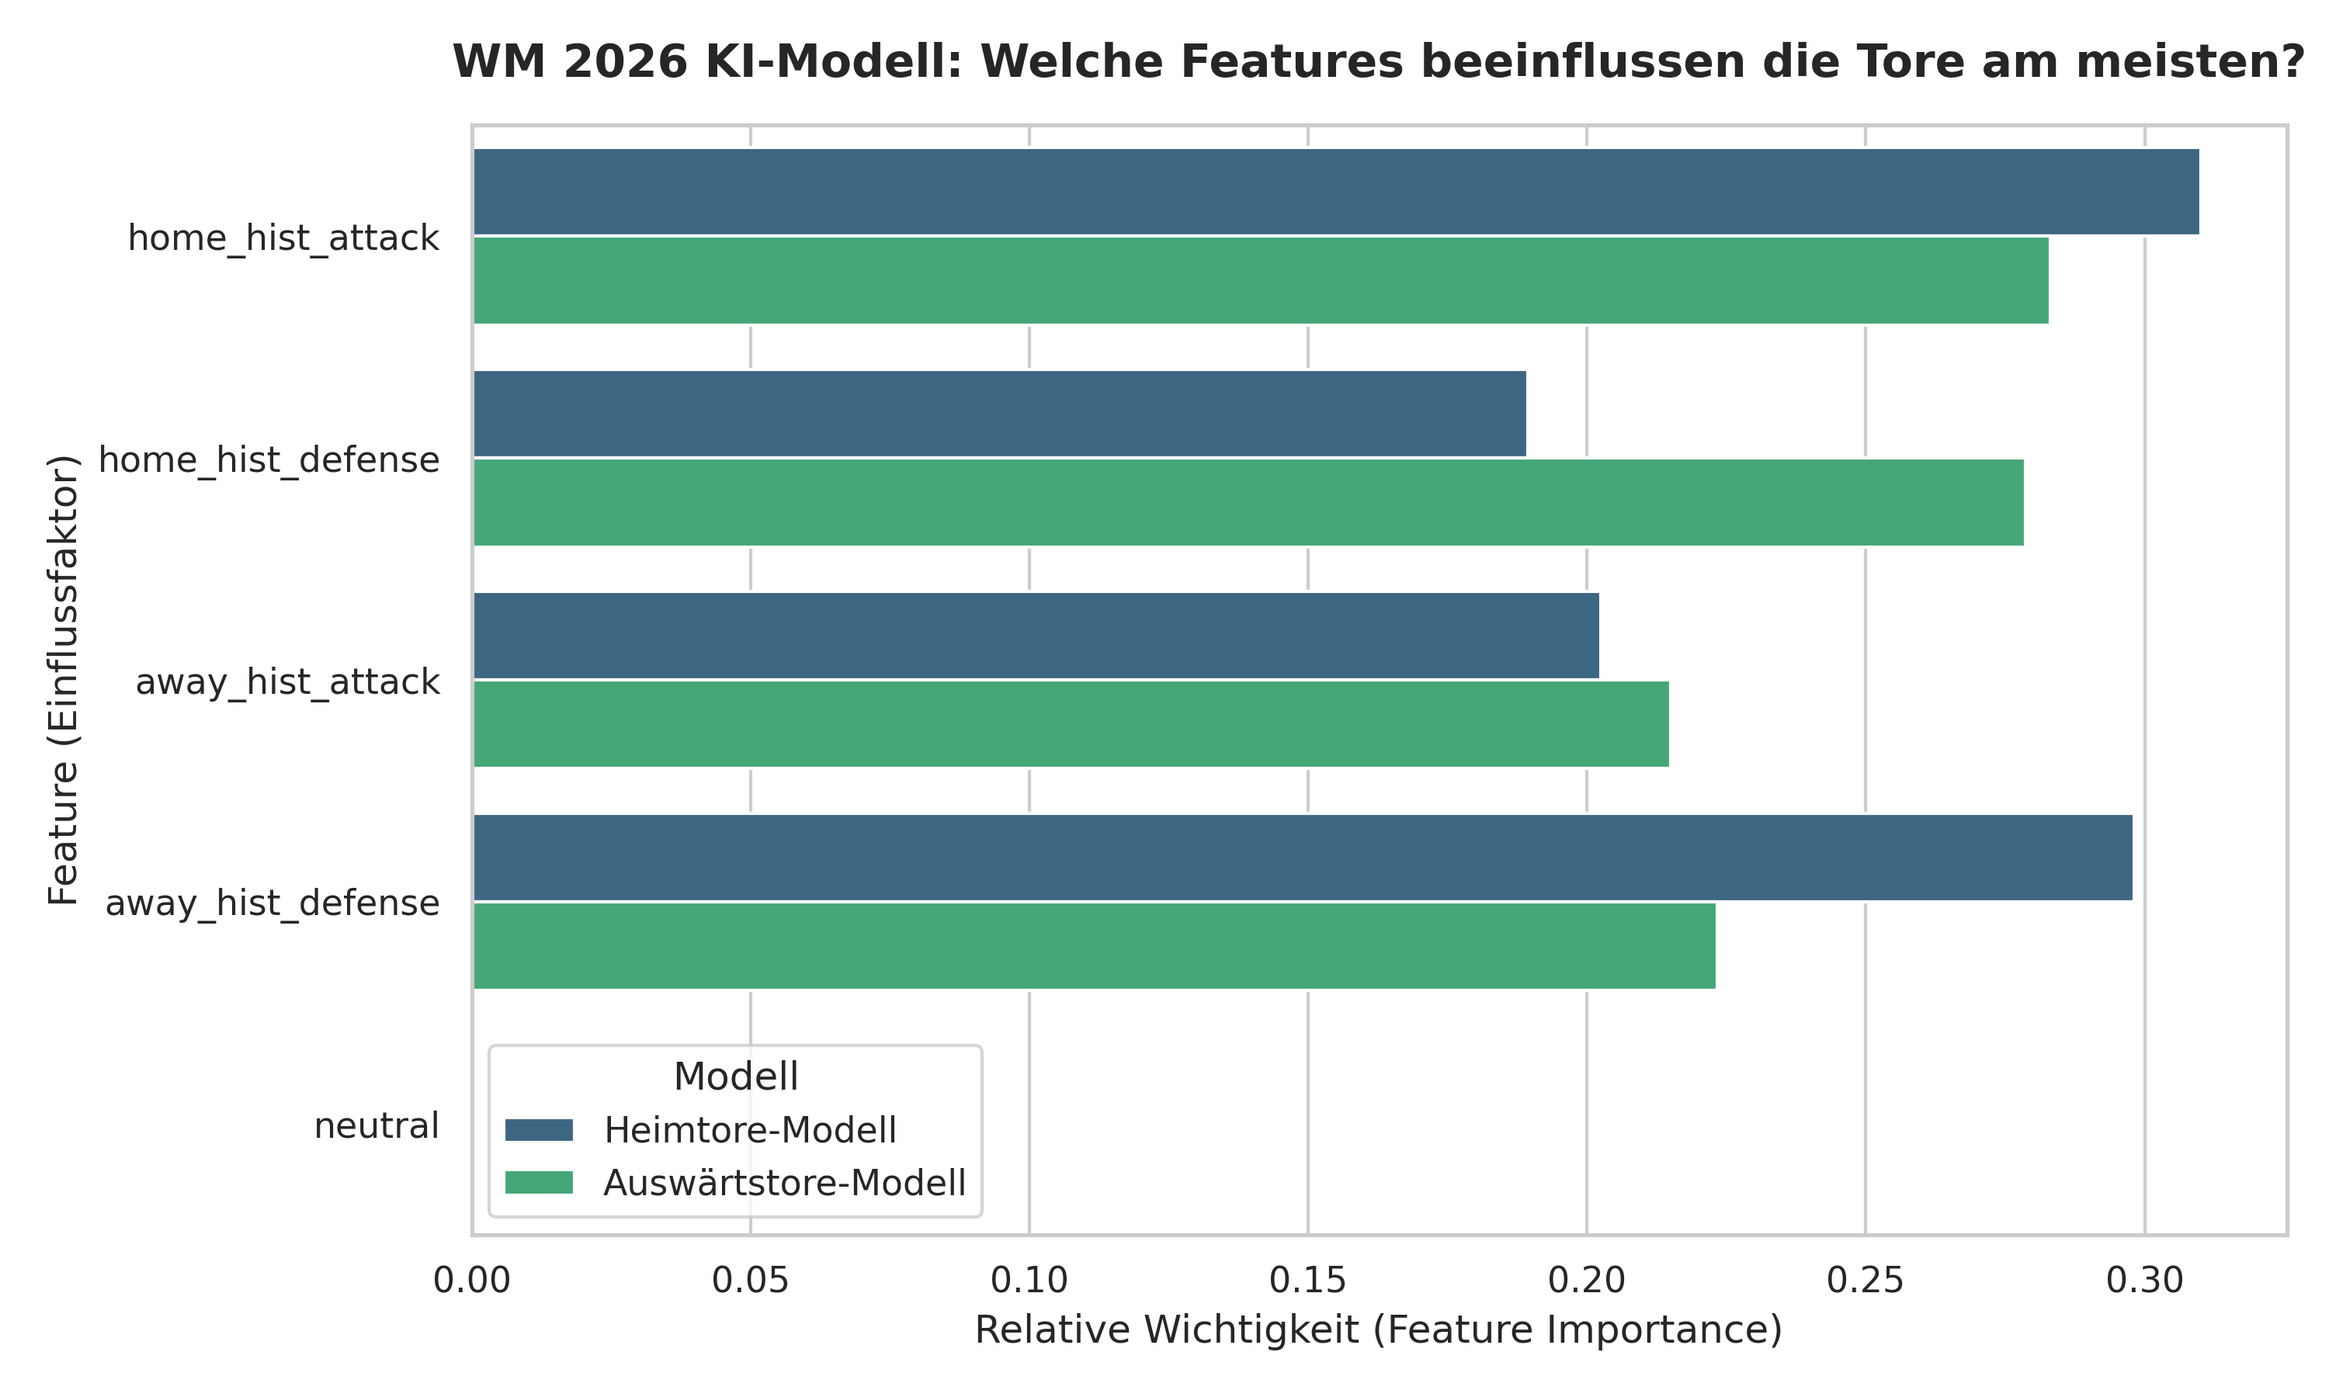
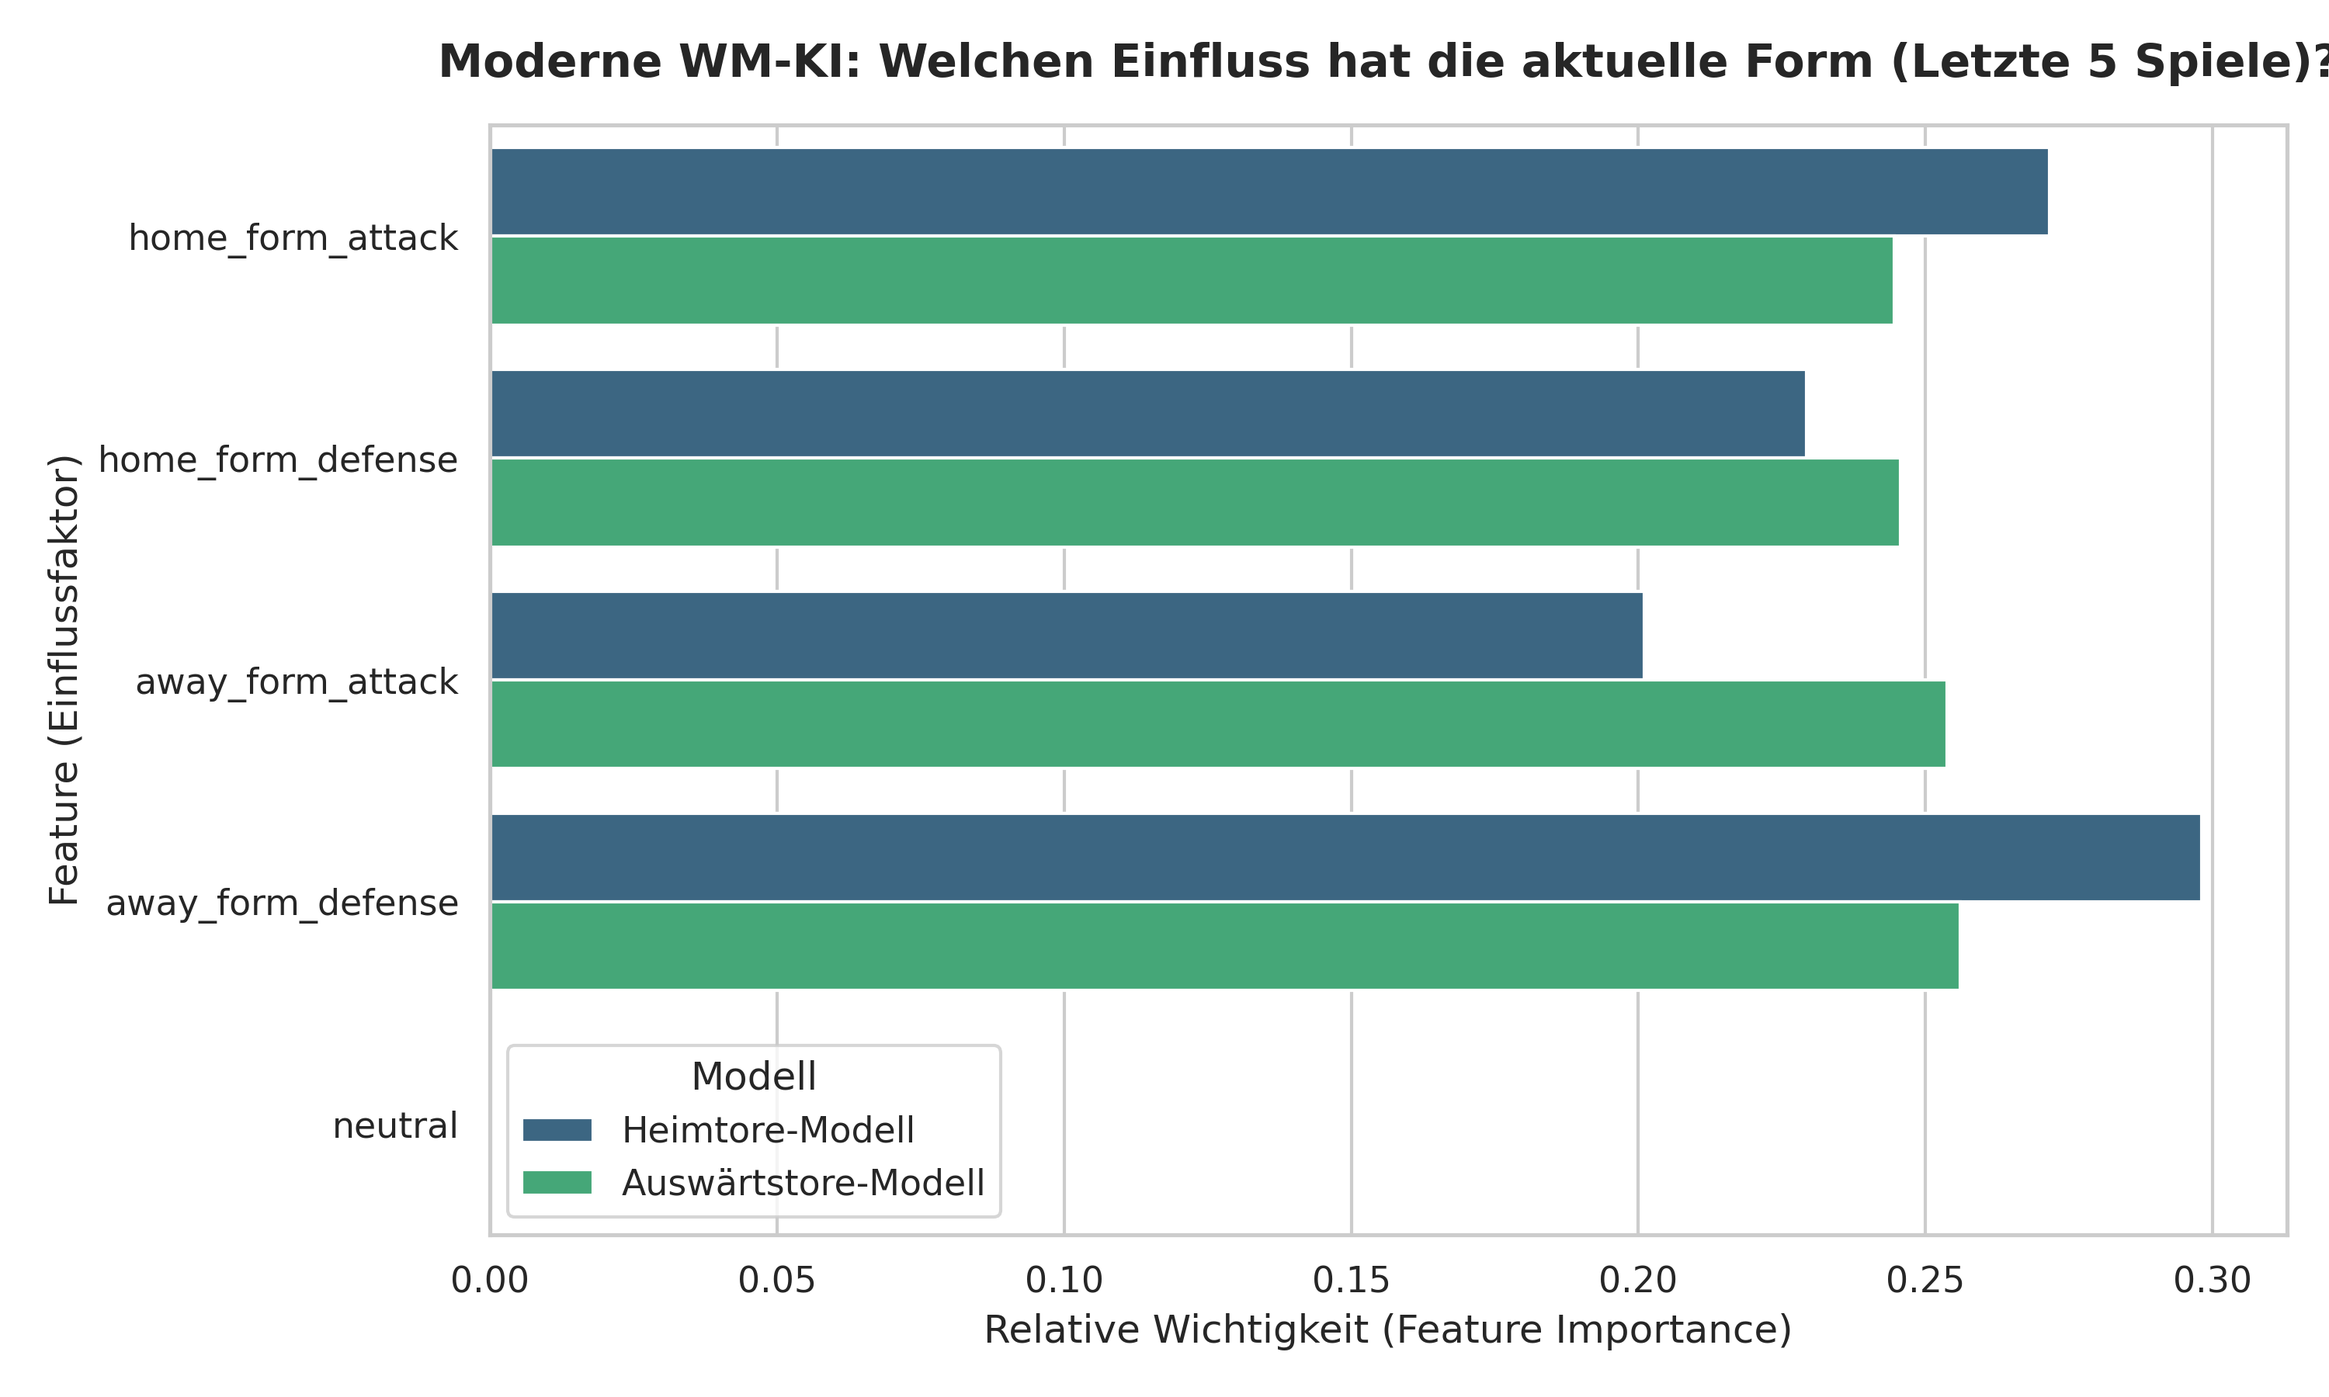
feat: cut to games from 2000 until today

diff --git a/prepare_data.py b/prepare_data.py
@@ -1,6 +1,7 @@
 import pandas as pd
 import numpy as np
 import yaml
+import sys
 
 def load_config():
     with open("config.yaml", "r") as f:
@@ -11,19 +12,72 @@ def process_data():
     raw_path = config['tournaments']['world_cup']['raw_path']
     processed_path = config['tournaments']['world_cup']['processed_path']
     
+    print(f"⏳ Lade Rohdaten aus {raw_path}...")
     df = pd.read_csv(raw_path)
     
-    # [Spalten-Mapping weggelassen für die Übersicht, bleibt wie vorher]
-    # ... (Dein funktionierendes Spalten-Mapping von vorhin) ...
+    # --- AUTOMATISCHES SPALTEN-MAPPING ---
+    print("\n🔍 Analysiere Spaltenstruktur...")
+    mapping = {}
     
-    # 1. RADIKALER ZEITFILTER: Nur moderner Fußball ab dem Jahr 2000
-    df['date'] = pd.to_datetime(df['date'], errors='coerce')
+    for col in ['date', 'Datetime', 'Year', 'year', 'Date']:
+        if col in df.columns:
+            mapping[col] = 'date'
+            break
+            
+    for col in ['home_team', 'Home Team Name', 'HomeTeam', 'Home Team']:
+        if col in df.columns:
+            mapping[col] = 'home_team'
+            break
+    for col in ['away_team', 'Away Team Name', 'AwayTeam', 'Away Team']:
+        if col in df.columns:
+            mapping[col] = 'away_team'
+            break
+            
+    for col in ['home_score', 'Home Team Goals', 'FTHG', 'Home Goals']:
+        if col in df.columns:
+            mapping[col] = 'home_score'
+            break
+    for col in ['away_score', 'Away Team Goals', 'FTAG', 'Away Goals']:
+        if col in df.columns:
+            mapping[col] = 'away_score'
+            break
+
+    df = df.rename(columns=mapping)
+    
+    required_cols = ['date', 'home_team', 'away_team', 'home_score', 'away_score']
+    missing_cols = [col for col in required_cols if col not in df.columns]
+    
+    if missing_cols:
+        print(f"\n❌ Fehler: Die KI konnte folgende Kernspalten nicht zuordnen: {missing_cols}")
+        sys.exit(1)
+        
+    print("✅ Spalten erfolgreich harmonisiert!")
+    
+    # --- INTELLIGENTE DATUMS-KONVERTIERUNG ---
+    # Wir prüfen die erste Zeile, um das Format zu erraten
+    sample_date = str(df['date'].dropna().iloc[0]).split('.')[0].strip()
+    
+    if sample_date.isdigit() and len(sample_date) == 4:
+        print("📅 Format-Erkennung: Reine Jahreszahlen (z.B. 2022). Fixe Zeitachse...")
+        df['date'] = pd.to_datetime(df['date'].astype(int).astype(str) + '-01-01', errors='coerce')
+    else:
+        print("📅 Format-Erkennung: Vollständige Datums-Strings. Konvertiere...")
+        df['date'] = pd.to_datetime(df['date'], errors='coerce')
+    
+    # --- EPOCCHENFILTER (Ab 2000) ---
     df = df[df['date'].dt.year >= 2000].reset_index(drop=True)
+    df = df.dropna(subset=['home_score', 'away_score', 'home_team', 'away_team'])
     
+    # HIER DIE SICHERHEITSBARRIERE:
+    if len(df) == 0:
+        print("\n❌ PIPELINE-STOPP: Nach dem Epochenfilter sind 0 Zeilen übrig geblieben!")
+        print("Das bedeutet, die Datums-Konvertierung hat nicht gegriffen. Überprüfe deine CSV.")
+        sys.exit(1)
+        
     df = df.sort_values('date').reset_index(drop=True)
+    print(f"🏟 Erfolg! {len(df)} MODERNE Weltmeisterschafts-Spiele im Datensatz gefunden.")
     
-    print(f"🏟 Verarbeite {len(df)} MODERNE Weltmeisterschafts-Spiele (Ab 2000)...")
-    
+    # --- FEATURE ENGINEERING ---
     team_stats = {}
     home_form_attack, home_form_defense = [], []
     away_form_attack, away_form_defense = [], []
@@ -34,18 +88,14 @@ def process_data():
         
         for team in [home, away]:
             if team not in team_stats:
-                # Wir tracken weiterhin die Tore
                 team_stats[team] = {'scored': [], 'conceded': []}
-        
-        # 2. NEUER FAKTOR: Nur die letzten 5 Spiele fließen in die Form ein (Rolling Window)
-        # Wenn keine Daten da sind, starten wir mit dem Turnierschnitt (ca. 1.3 Tore)
+                
         home_form_attack.append(np.mean(team_stats[home]['scored'][-5:]) if team_stats[home]['scored'] else 1.3)
         home_form_defense.append(np.mean(team_stats[home]['conceded'][-5:]) if team_stats[home]['conceded'] else 1.3)
         
         away_form_attack.append(np.mean(team_stats[away]['scored'][-5:]) if team_stats[away]['scored'] else 1.3)
         away_form_defense.append(np.mean(team_stats[away]['conceded'][-5:]) if team_stats[away]['conceded'] else 1.3)
         
-        # Historie aktualisieren
         team_stats[home]['scored'].append(row['home_score'])
         team_stats[home]['conceded'].append(row['away_score'])
         team_stats[away]['scored'].append(row['away_score'])
@@ -54,7 +104,7 @@ def process_data():
     df['home_form_attack'] = home_form_attack
     df['home_form_defense'] = home_form_defense
     df['away_form_attack'] = away_form_attack
-    df['away_form_defense'] = away_defense_feat = away_form_defense # Zuweisung korrigiert
+    df['away_form_defense'] = away_form_defense
     
     df['neutral'] = 1
     
@@ -67,7 +117,7 @@ def process_data():
     
     cleaned_df = df[final_features]
     cleaned_df.to_csv(processed_path, index=False)
-    print(f"✅ Daten auf modernen Stand gebracht und gespeichert!")
+    print(f"✅ Daten sauber aufbereitet und unter '{processed_path}' gespeichert!")
 
 if __name__ == "__main__":
     process_data()

diff --git a/predict.py b/predict.py
@@ -3,33 +3,30 @@ import joblib
 import sys
 
 def get_latest_team_stats(team, df):
-    """Sucht die aktuellsten historischen Werte eines Teams aus dem Datensatz."""
-    # Filtere alle Spiele des Teams
+    """Sucht die aktuellsten Form-Werte eines Teams aus dem modernen Datensatz."""
     team_df = df[(df['home_team'] == team) | (df['away_team'] == team)].sort_values('date')
     
     if team_df.empty:
-        print(f"⚠ Team '{team}' wurde in der WM-Historie nicht gefunden. Nutze Standardwerte.")
-        return 1.2, 1.2 # Fallback-Werte
+        print(f"⚠ Team '{team}' wurde in den modernen Daten nicht gefunden. Nutze Standardwerte.")
+        return 1.3, 1.3
         
-    # Nimm das allerletzte Spiel
     last_game = team_df.iloc[-1]
     
     # Prüfe, ob das Team im letzten Spiel Heim- oder Auswärtsmannschaft war
     if last_game['home_team'] == team:
-        return last_game['home_hist_attack'], last_game['home_hist_defense']
+        return last_game['home_form_attack'], last_game['home_form_defense']
     else:
-        return last_game['away_hist_attack'], last_game['away_hist_defense']
+        return last_game['away_form_attack'], last_game['away_form_defense']
 
 def main():
     if len(sys.argv) < 3:
         print("💡 Nutzung: python predict.py '<Heimteam>' '<Auswärtsteam>'")
-        print("Format beachten (z.B. 'Germany', 'Brazil', 'France', 'Argentina')")
+        print("Beispiel: python predict.py 'Germany' 'Brazil'")
         sys.exit(1)
         
     home_team = sys.argv[1]
     away_team = sys.argv[2]
     
-    # 1. Modelle und Daten laden
     try:
         model_home = joblib.load("models/wm_home_goals_model.pkl")
         model_away = joblib.load("models/wm_away_goals_model.pkl")
@@ -38,32 +35,28 @@ def main():
         print(f"❌ Fehler beim Laden der Dateien: {e}")
         sys.exit(1)
         
-    # 2. Die aktuellsten Features für beide Teams holen
     home_attack, home_defense = get_latest_team_stats(home_team, df)
     away_attack, away_defense = get_latest_team_stats(away_team, df)
     
-    # 3. Feature-DataFrame für das Modell bauen (muss exakt wie beim Training sein!)
     input_data = pd.DataFrame([{
-        'home_hist_attack': home_attack,
-        'home_hist_defense': home_defense,
-        'away_hist_attack': away_attack,
-        'away_hist_defense': away_defense,
-        'neutral': 1  # WM-Spiele sind standardmäßig auf neutralem Boden
+        'home_form_attack': home_attack,
+        'home_form_defense': home_defense,
+        'away_form_attack': away_attack,
+        'away_form_defense': away_defense,
+        'neutral': 1
     }])
     
-    # 4. Vorhersage berechnen
     pred_home_goals = model_home.predict(input_data)[0]
     pred_away_goals = model_away.predict(input_data)[0]
     
-    # 5. Ergebnis präsentieren
     print("\n" + "="*40)
-    print(f"🔮 KI-VORHERSAGE FÜR DAS MATCH:")
+    print(f"🔮 KI-VORHERSAGE (MODERNES FORM-MODELL):")
     print(f"   {home_team} vs. {away_team}")
     print("="*40)
-    print(f"⚽ Erwartete Tore {home_team}: {pred_home_goals:.2f}")
-    print(f"⚽ Erwartete Tore {away_team}: {pred_away_goals:.2f}")
+    print(f"⚽ Erwartete Tore {home_team}: {max(0, pred_home_goals):.2f}")
+    print(f"⚽ Erwartete Tore {away_team}: {max(0, pred_away_goals):.2f}")
     print("-"*40)
-    print(f"🏆 Tipp: {home_team} {round(pred_home_goals)} - {round(pred_away_goals)} {away_team}")
+    print(f"🏆 Tipp: {home_team} {round(max(0, pred_home_goals))} - {round(max(0, pred_away_goals))} {away_team}")
     print("="*40 + "\n")
 
 if __name__ == "__main__":

diff --git a/visualize.py b/visualize.py
@@ -5,61 +5,37 @@ import matplotlib.pyplot as plt
 import seaborn as sns
 
 def plot_feature_importance():
-    print("⏳ Lade trainierte Modelle für die Visualisierung...")
+    print("⏳ Lade modernisierte Modelle für die Visualisierung...")
     
-    # 1. Modelle laden
     try:
         model_home = joblib.load("models/wm_home_goals_model.pkl")
         model_away = joblib.load("models/wm_away_goals_model.pkl")
     except FileNotFoundError:
-        print("❌ Fehler: Trainierte Modelle wurden nicht im Ordner 'models/' gefunden.")
+        print("❌ Fehler: Modelle nicht gefunden.")
         return
 
-    # Deine exakten Feature-Namen aus dem Training
-    features = ['home_hist_attack', 'home_hist_defense', 'away_hist_attack', 'away_hist_defense', 'neutral']
+    # Die neuen Features
+    features = ['home_form_attack', 'home_form_defense', 'away_form_attack', 'away_form_defense', 'neutral']
     
-    # 2. DataFrames für die Wichtigkeiten erstellen
-    df_home = pd.DataFrame({
-        'Feature': features,
-        'Importance': model_home.feature_importances_,
-        'Modell': 'Heimtore-Modell'
-    })
-    
-    df_away = pd.DataFrame({
-        'Feature': features,
-        'Importance': model_away.feature_importances_,
-        'Modell': 'Auswärtstore-Modell'
-    })
-    
-    # Beide Datensätze für den Plot kombinieren
+    df_home = pd.DataFrame({'Feature': features, 'Importance': model_home.feature_importances_, 'Modell': 'Heimtore-Modell'})
+    df_away = pd.DataFrame({'Feature': features, 'Importance': model_away.feature_importances_, 'Modell': 'Auswärtstore-Modell'})
     df_total = pd.concat([df_home, df_away])
     
-    # 3. Das Diagramm mit Seaborn stylen
-    print("🎨 Generiere professionelles Feature-Importance-Diagramm...")
+    print("🎨 Generiere neues Feature-Importance-Diagramm...")
     sns.set_theme(style="whitegrid")
     plt.figure(figsize=(10, 6))
     
-    # Ein schickes Balkendiagramm (Barplot) erstellen
-    plot = sns.barplot(
-        x='Importance', 
-        y='Feature', 
-        hue='Modell', 
-        data=df_total, 
-        palette='viridis'
-    )
+    sns.barplot(x='Importance', y='Feature', hue='Modell', data=df_total, palette='viridis')
     
-    # Titel und Achsen beschriften
-    plt.title('WM 2026 KI-Modell: Welche Features beeinflussen die Tore am meisten?', fontsize=14, fontweight='bold', pad=15)
+    plt.title('Moderne WM-KI: Welchen Einfluss hat die aktuelle Form (Letzte 5 Spiele)?', fontsize=14, fontweight='bold', pad=15)
     plt.xlabel('Relative Wichtigkeit (Feature Importance)', fontsize=12)
     plt.ylabel('Feature (Einflussfaktor)', fontsize=12)
     plt.tight_layout()
     
-    # 4. Grafik abspeichern
     output_path = "plots/feature_importance.png"
     plt.savefig(output_path, dpi=300)
     plt.close()
-    
-    print(f"✅ Grafik erfolgreich unter '{output_path}' gespeichert! Schau sie dir mal an.")
+    print(f"✅ Neue Grafik unter '{output_path}' gespeichert!")
 
 if __name__ == "__main__":
     plot_feature_importance()

diff --git a/train.py b/train.py
@@ -13,29 +13,28 @@ def main():
     config = load_config()
     data_path = config['tournaments']['world_cup']['processed_path']
     
-    print(f"⏳ Lade aufbereitete WM-Daten aus '{data_path}'...")
+    print(f"⏳ Lade aufbereitete moderne WM-Daten aus '{data_path}'...")
     df = pd.read_csv(data_path)
     
-    # 1. Features (X) und Targets (y) definieren
-    features = ['home_hist_attack', 'home_hist_defense', 'away_hist_attack', 'away_hist_defense', 'neutral']
+    # HIER GEÄNDERT: Die neuen Form-Features statt der alten Hist-Features
+    features = ['home_form_attack', 'home_form_defense', 'away_form_attack', 'away_form_defense', 'neutral']
     X = df[features]
     
-    # Wir haben zwei Zielvariablen: Heimtore und Auswärtstore
+    # Wir haben weiterhin zwei Zielvariablen: Heimtore und Auswärtstore
     y_home = df['home_score']
     y_away = df['away_score']
     
     # 2. Train-Test-Split (80% Training, 20% Test)
-    # Wir nutzen denselben Split für beide Modelle
     X_train, X_test, y_home_train, y_home_test = train_test_split(X, y_home, test_size=0.2, random_state=42)
     _, _, y_away_train, y_away_test = train_test_split(X, y_away, test_size=0.2, random_state=42)
     
     # 3. Modell 1: Heimtore vorhersagen
-    print("🤖 Trainiere Modell für HEIM-Tore...")
+    print("🤖 Trainiere modernes Modell für HEIM-Tore...")
     model_home = xgb.XGBRegressor(n_estimators=100, learning_rate=0.05, max_depth=3, random_state=42)
     model_home.fit(X_train, y_home_train)
     
     # 4. Modell 2: Auswärtstore vorhersagen
-    print("🤖 Trainiere Modell für AUSWÄRTS-Tore...")
+    print("🤖 Trainiere modernes Modell für AUSWÄRTS-Tore...")
     model_away = xgb.XGBRegressor(n_estimators=100, learning_rate=0.05, max_depth=3, random_state=42)
     model_away.fit(X_train, y_away_train)
     
@@ -46,14 +45,14 @@ def main():
     mae_home = mean_absolute_error(y_home_test, pred_home)
     mae_away = mean_absolute_error(y_away_test, pred_away)
     
-    print("\n--- 📊 Modell-Performance (MAE) ---")
+    print("\n--- 📊 Neue Modell-Performance (MAE) ---")
     print(f"Fehler Heimtore: {mae_home:.2f} Tore im Schnitt daneben.")
     print(f"Fehler Auswärtstore: {mae_away:.2f} Tore im Schnitt daneben.")
     
     # 6. Modelle abspeichern
     joblib.dump(model_home, "models/wm_home_goals_model.pkl")
     joblib.dump(model_away, "models/wm_away_goals_model.pkl")
-    print("\n💾 Beide Modelle erfolgreich im Ordner 'models/' gespeichert!")
+    print("\n💾 Beide modernisierten Modelle erfolgreich im Ordner 'models/' gespeichert!")
 
 if __name__ == "__main__":
     main()
